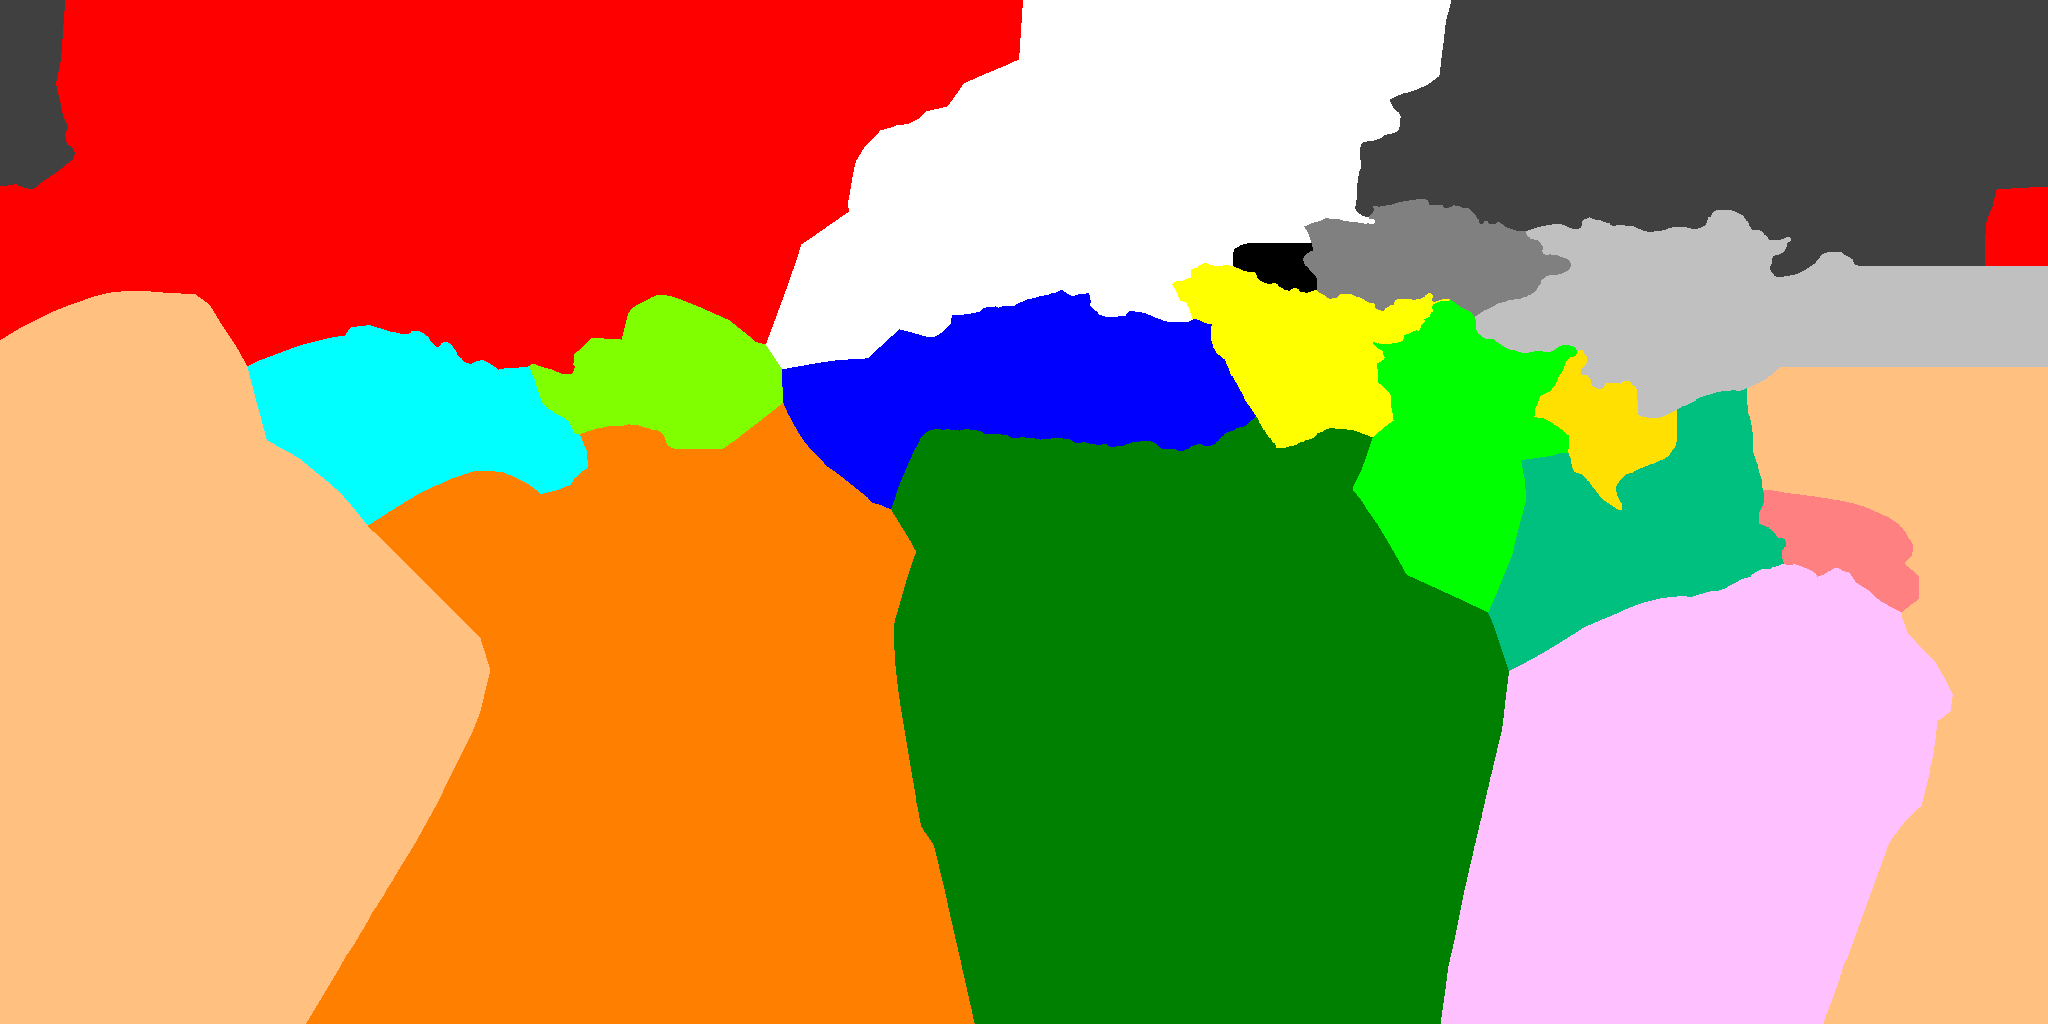
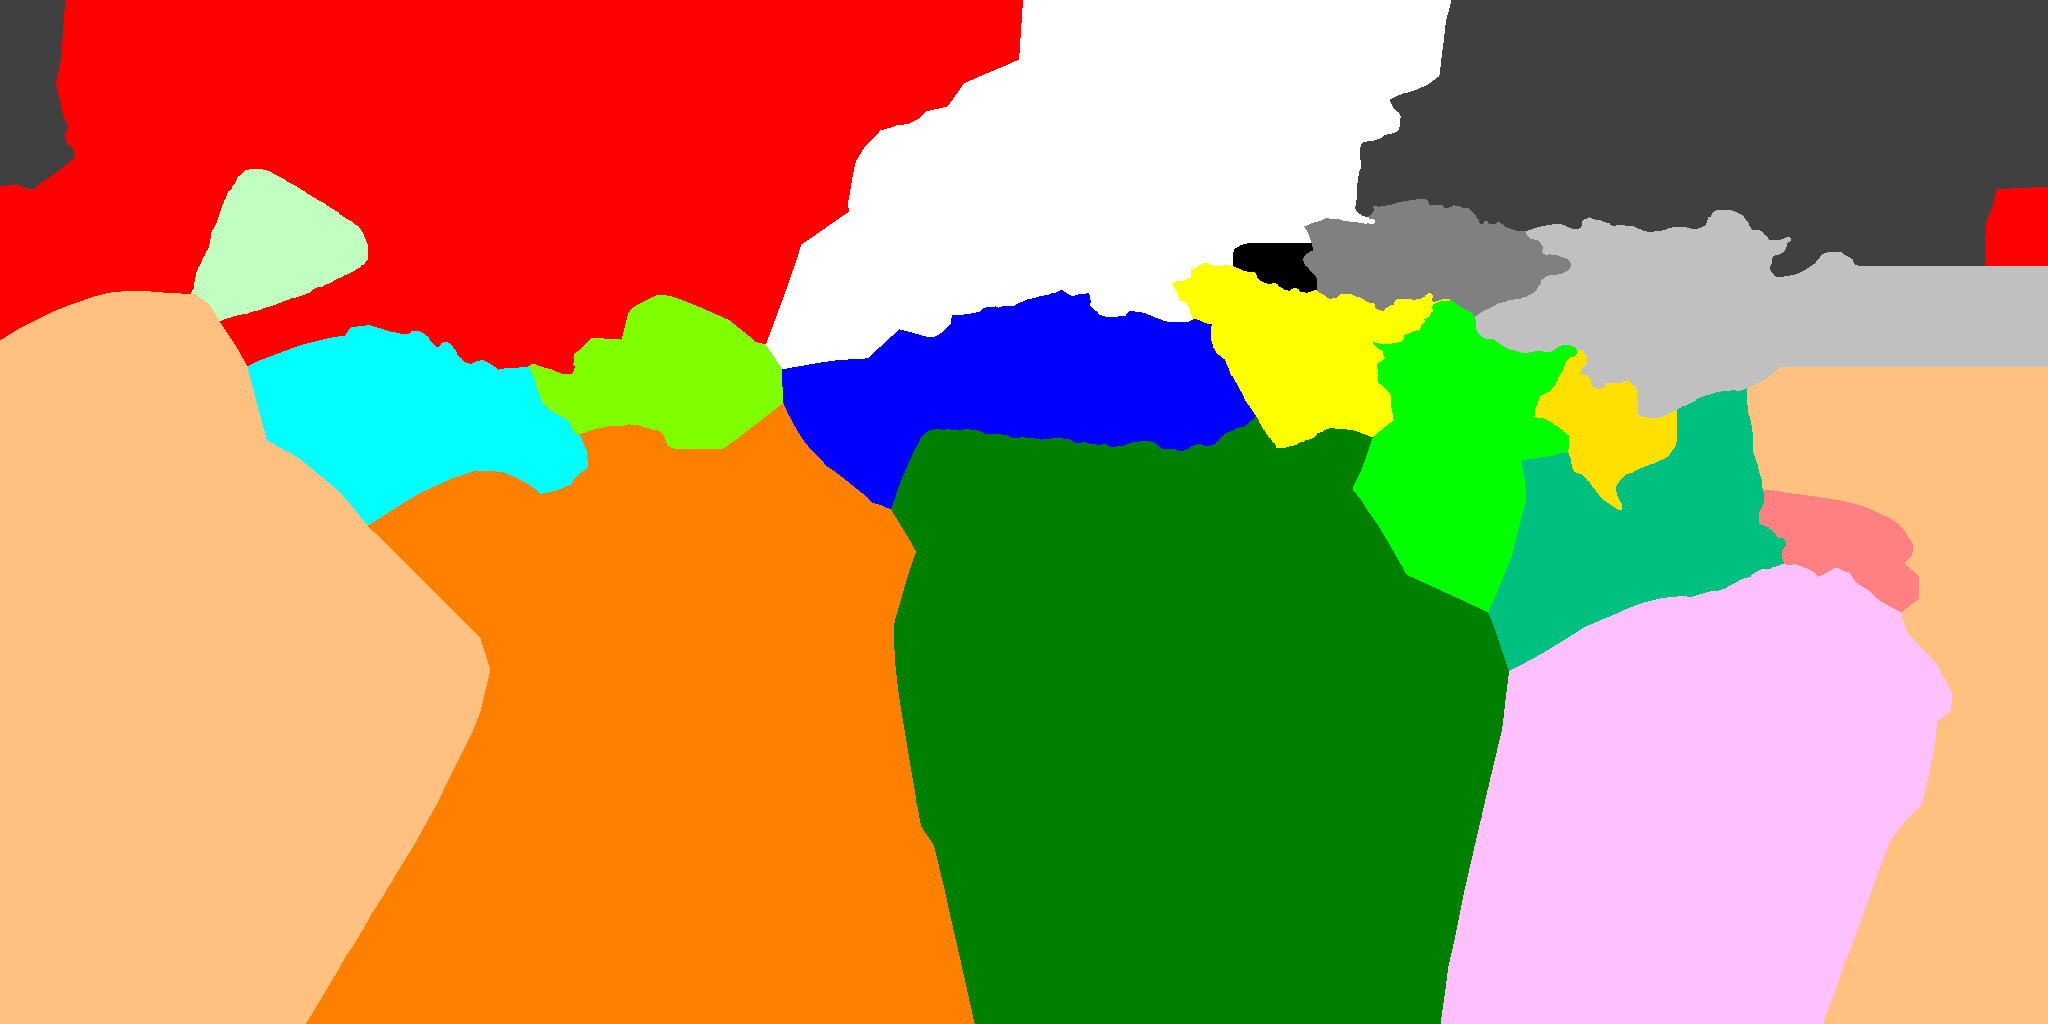
add more regions

Changed region(s): [[0.0938, 0.1562, 0.1875, 0.3125]]

diff --git a/Geo.cs b/Geo.cs
@@ -17,6 +17,7 @@ namespace WalsParser {
 		AMERICA_NORTH_NORTH = 0xFFFF0000,
 		AMERICA_CENTRAL = 0xFF00FFFF,
 		AMERICA_SOUTH = 0xFFFF8000,
+		CASCADIA = 0xFFC0FFC0,
 		CARRIBEAN = 0xFF80FF00,
 		OCEANIA = 0xFFFFC080,
 		NEW_GUINEA = 0xFFFF8080,
@@ -37,13 +38,21 @@ namespace WalsParser {
 		public static Region? FromID(string id){
 			return regions.Find(r => r.id == id);
 		}
-		static readonly Region AFRICA = new("africa", new Province[]{Province.AFRICA_NORTH, Province.AFRICA_SUBSAHARAN});
-		static readonly Region AMERICA_NORTH = new("america_north", new Province[]{Province.AMERICA_NORTH_NORTH, Province.CARRIBEAN, Province.AMERICA_CENTRAL});
+		static readonly Region AFRICA = new("africa", new Province[]{
+			Province.AFRICA_NORTH, Province.AFRICA_SUBSAHARAN
+		});
+		static readonly Region AMERICA_NORTH = new("america_north", new Province[]{
+			Province.AMERICA_NORTH_NORTH, Province.CASCADIA, Province.CARRIBEAN, Province.AMERICA_CENTRAL
+		});
 		static readonly Region AMERICA_SOUTH = new("america_south", new Province[]{Province.AMERICA_SOUTH});
-		static readonly Region ASIA = new("asia", new Province[]{Province.SIBERIA, Province.CAUCASUS, Province.ASIA_SOUTHWEST,
-			Province.ASIA_CENTRAL, Province.INDIA, Province.ASIA_EAST, Province.INDOCHINA, Province.INDONESIA});
+		static readonly Region ASIA = new("asia", new Province[]{
+			Province.SIBERIA, Province.CAUCASUS, Province.ASIA_SOUTHWEST,
+			Province.ASIA_CENTRAL, Province.INDIA, Province.ASIA_EAST, Province.INDOCHINA, Province.INDONESIA
+		});
 		static readonly Region EUROPE = new("europe", new Province[]{Province.EUROPE});
-		static readonly Region OCEANIA = new("oceania", new Province[]{Province.AUSTRALIA, Province.NEW_GUINEA, Province.OCEANIA});
+		static readonly Region OCEANIA = new("oceania", new Province[]{
+			Province.AUSTRALIA, Province.NEW_GUINEA, Province.OCEANIA
+		});
 	}
 	static class Geo {
 		const string MAP_FILENAME = "regions.png";

diff --git a/Program.cs b/Program.cs
@@ -4,7 +4,7 @@ namespace WalsParser
 {
 	static class Program {
 		const string test_lang_id = "eng"; // English
-		const string region_id = "europe";
+		const string region_id = "CASCADIA";
 		static readonly Region region = Region.FromID(region_id) ?? Region.regions[0];
 		const string DELEM_FILENAME = "../wals/raw/domainelement.csv";
 		const string PARAM_FILENAME = "../wals/raw/parameter.csv";
